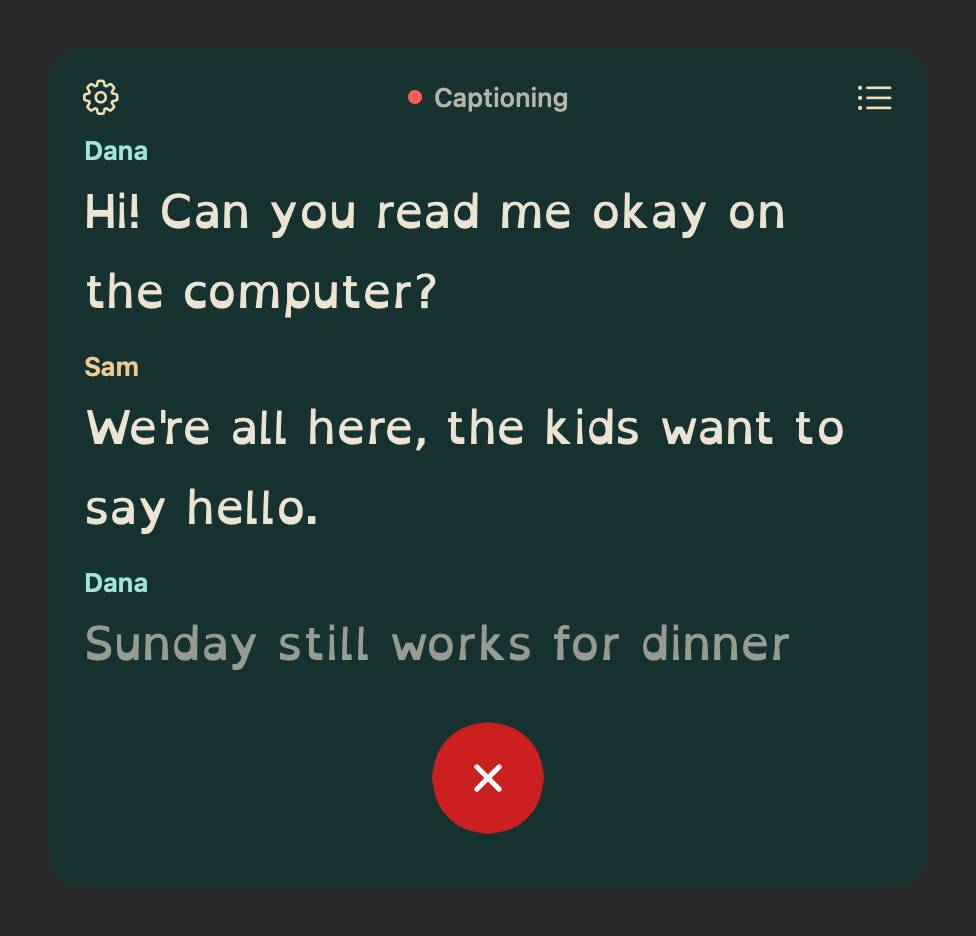
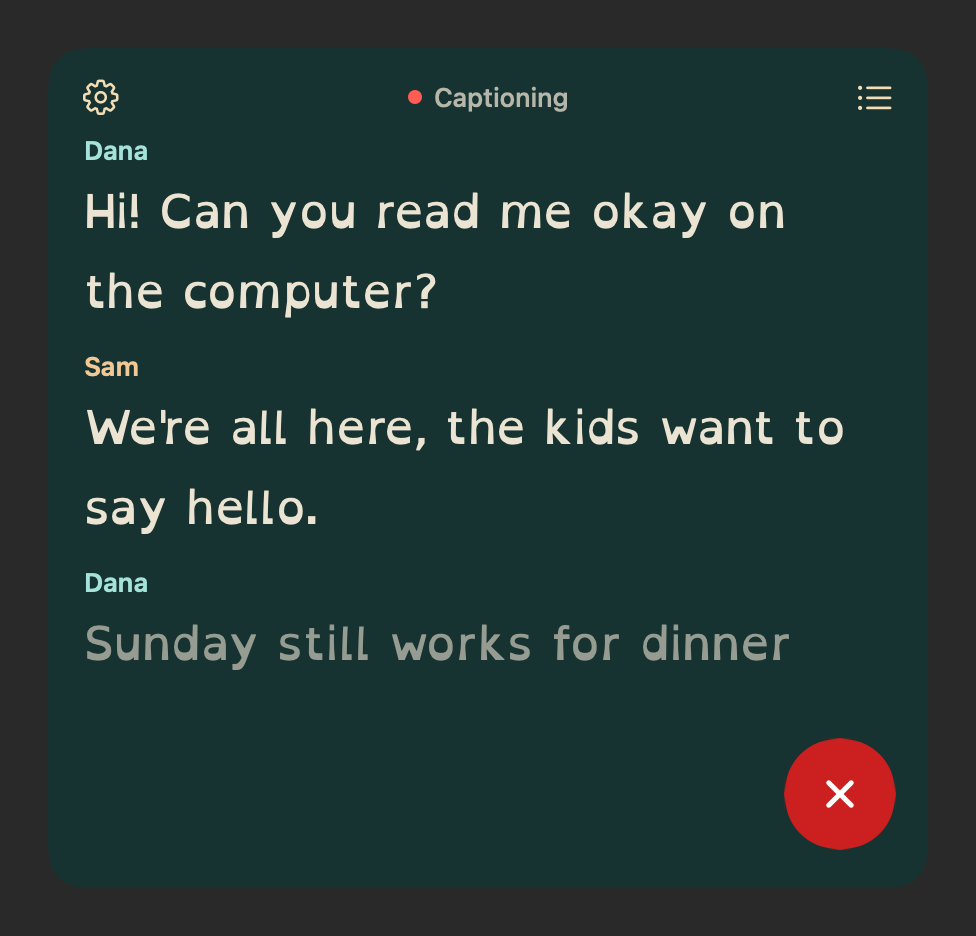
Mac: the Stop X sits in the bottom-right corner, as on the iPhone; captions get the room (#178)
Owner, 2026-10-28 evening: "put it in the corner", the final version. The
control is an overlay like the iPhone's controlBar: the Start pill centered at
the bottom, the X in the bottom-right corner, the captions running down to it
with the 14 pt gap kept.

Refs #178

Claude-Session: https://claude.ai/code/session_013wtERcznEHZfj6JwiA5Wiu

Changed region(s): [[0.7992, 0.7746, 0.9221, 0.9295], [0.4303, 0.7746, 0.5533, 0.8985]]

diff --git a/Apps/Mac/Sources/CallPopupView.swift b/Apps/Mac/Sources/CallPopupView.swift
@@ -50,6 +50,15 @@ struct CallPopupView: View {
 
     /// The Start captions pill's height on the Mac (its size before the iPhone's control came in).
     static let pillHeight: CGFloat = 47
+    /// The 14 pt between the newest words and the control.
+    static let controlGap: CGFloat = 14
+
+    @Environment(\.accessibilityReduceMotion) private var reduceMotion
+    private var compact: Bool { control.presentation == .compact }
+    /// Room kept at the bottom of the captions for the control: the X's corner while captioning, the pill's row otherwise.
+    private var controlReserve: CGFloat {
+        (compact ? PrimaryControl.compactDiameter + 16 : Self.pillHeight + GummyButtonStyle.restingLip + 24) + Self.controlGap
+    }
 
     private var speakerColors: [RGBA] {
         let colors = style.preset?.speakers ?? SpeakerPalette.colors(on: style.background, text: style.text)
@@ -70,20 +79,25 @@ struct CallPopupView: View {
                 Button(String(localized: "Save conversation"), action: onSave).disabled(!canSave)
                 Button(String(localized: "New conversation"), action: onNew)
             }
-            // The iPhone's control (#178): the pill sweeps into a small red X while captioning and back, Reduce Motion a
-            // crossfade. A gap above it so the newest words never run into it.
+            // The captions run down to the control, keeping a gap so the newest words never run into it.
+            .padding(.bottom, controlReserve)
+        }
+        // The iPhone's control and layout (#178, owner 2026-10-28): the Start pill centered at the bottom; while
+        // captioning it sweeps into the small red X in the bottom-right corner, so captions get the screen. Reduce
+        // Motion: a crossfade.
+        .overlay(alignment: .bottom) {
             GeometryReader { geo in
                 MorphingControl(control: control, fullWidth: geo.size.width, fill: style.text, label: style.background,
                                 pillHeight: Self.pillHeight, titleFont: .system(size: 19, weight: .semibold), action: onPrimary)
-                    .frame(maxWidth: .infinity)
+                    .frame(maxWidth: .infinity, maxHeight: .infinity, alignment: compact ? .bottomTrailing : .bottom)
             }
             .frame(height: max(Self.pillHeight, PrimaryControl.compactDiameter) + GummyButtonStyle.restingLip)
             .disabled(!buttonEnabled)
             .opacity(buttonEnabled ? 1 : 0.5)
             .keyboardShortcut(.space, modifiers: [])
-            .padding(.top, 14)
-            .padding(.horizontal, 18)
-            .padding(.bottom, 24)   // a little more room under Stop (owner, 2026-10-28)
+            .padding(.horizontal, compact ? 16 : 18)
+            .padding(.bottom, compact ? 16 : 24)   // a little more room under Start (owner, 2026-10-28)
+            .animation(Fluid.quick(reduceMotion), value: compact)
         }
         .background(style.background.color)
         .environment(\.colorScheme, style.background.isDark ? .dark : .light)
